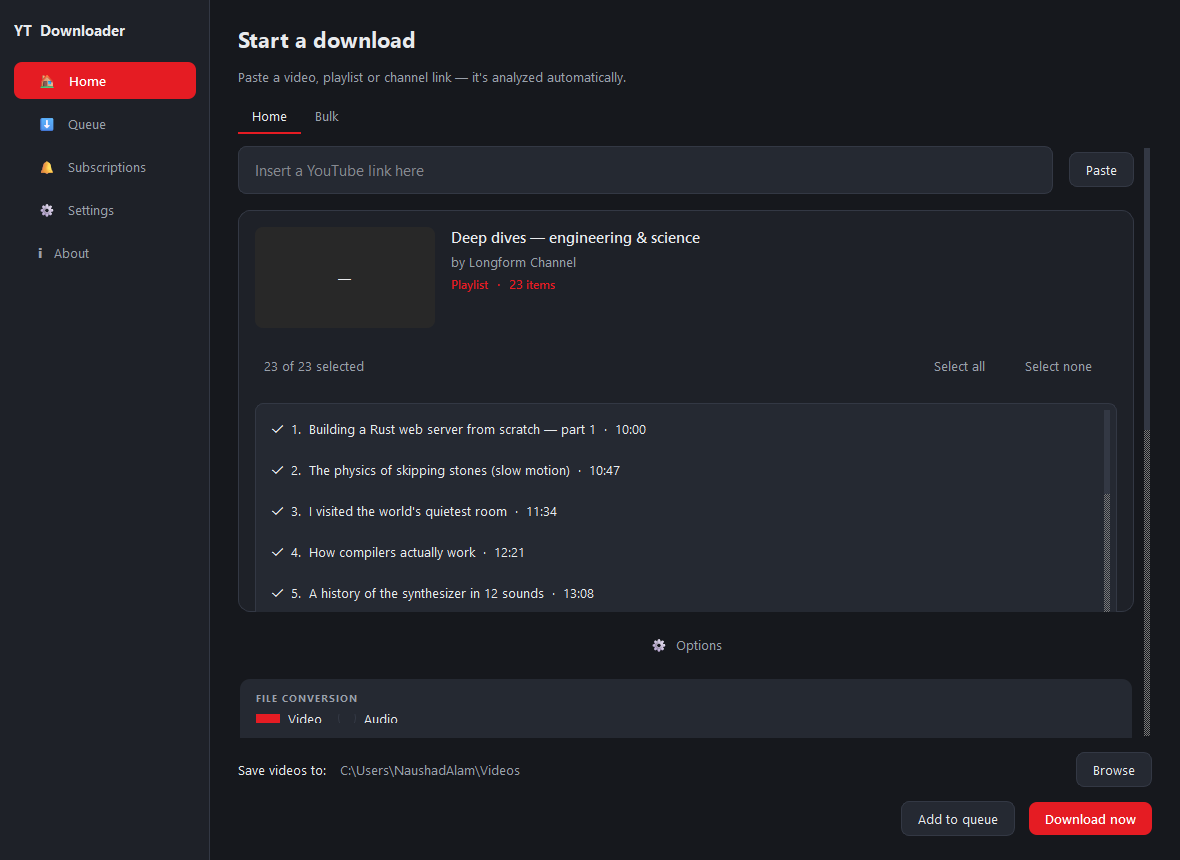
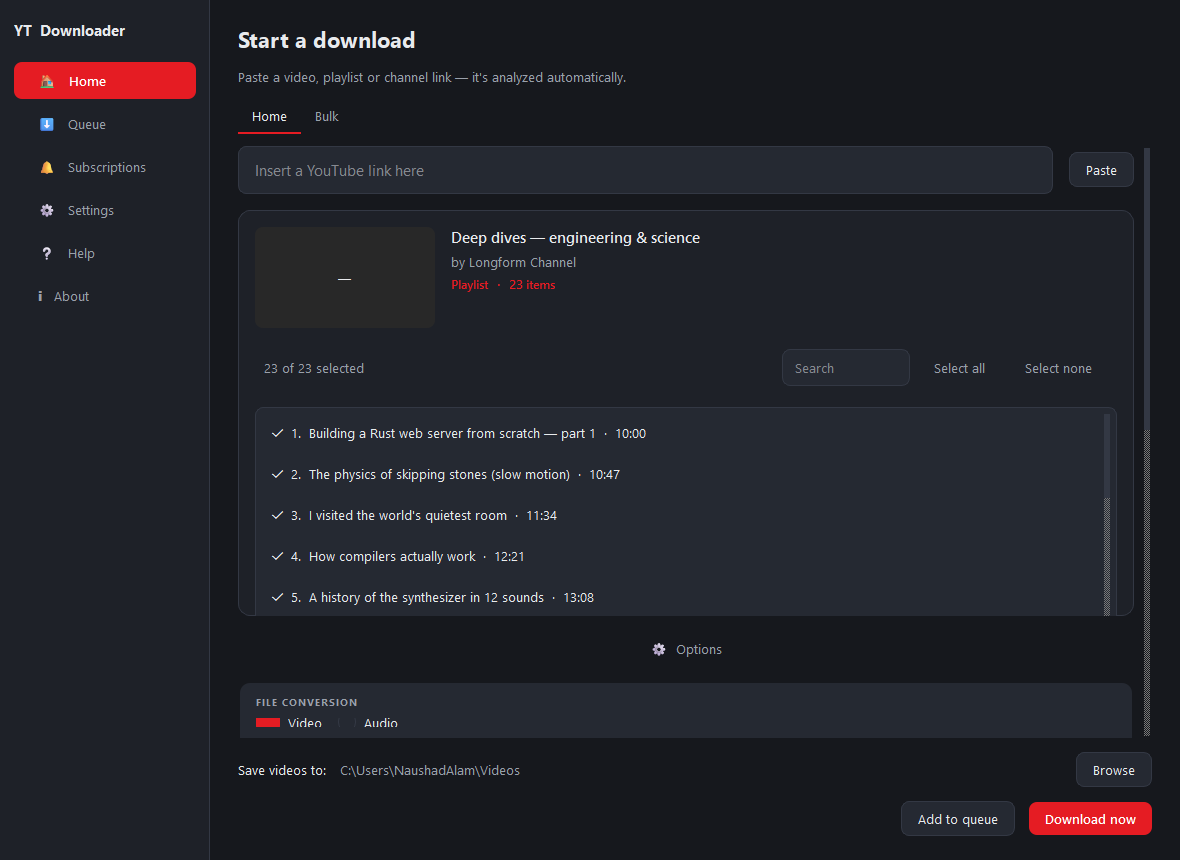
Playlist filter box + minimal CLI
- Home: search box in the selection bar (shown for playlists >12 items);
  filters the list live, and Select all/none then act on visible rows only.
- app.py: argparse front-end — `ytpdl --version`, `--help`, and an optional
  positional URL that pre-fills the Home search box. Qt's own flags pass through.

diff --git a/ytpdl/ui/pages/home_page.py b/ytpdl/ui/pages/home_page.py
@@ -145,6 +145,11 @@ class HomePage(QWidget):
         self._select_bar.setSpacing(8)
         self._select_count = QLabel("")
         self._select_count.setObjectName("Dim")
+        self._list_filter = QLineEdit()
+        self._list_filter.setPlaceholderText(tr("Search"))
+        self._list_filter.setClearButtonEnabled(True)
+        self._list_filter.setMaximumWidth(220)
+        self._list_filter.textChanged.connect(self._apply_list_filter)
         btn_all = QPushButton(tr("SelectAll"))
         btn_all.setObjectName("Ghost")
         btn_all.clicked.connect(lambda: self._set_all_checked(True))
@@ -152,6 +157,7 @@ class HomePage(QWidget):
         btn_none.setObjectName("Ghost")
         btn_none.clicked.connect(lambda: self._set_all_checked(False))
         self._select_bar.addWidget(self._select_count, 1)
+        self._select_bar.addWidget(self._list_filter)
         self._select_bar.addWidget(btn_all)
         self._select_bar.addWidget(btn_none)
         self._select_bar_holder = QWidget()
@@ -336,6 +342,10 @@ class HomePage(QWidget):
         collection = source.is_collection and source.count > 1
         self._select_bar_holder.setVisible(collection)
         self._video_list.setVisible(collection)
+        self._list_filter.blockSignals(True)
+        self._list_filter.clear()
+        self._list_filter.blockSignals(False)
+        self._list_filter.setVisible(collection and source.count > 12)
         self._video_list.blockSignals(True)
         self._video_list.clear()
         if collection:
@@ -352,10 +362,20 @@ class HomePage(QWidget):
             self._video_list.setFixedHeight(min(self._video_list.count(), 7) * row_h + 8)
         self._update_select_count()
 
+    def _apply_list_filter(self, text: str) -> None:
+        needle = text.strip().lower()
+        for i in range(self._video_list.count()):
+            item = self._video_list.item(i)
+            item.setHidden(bool(needle) and needle not in item.text().lower())
+
     def _set_all_checked(self, checked: bool) -> None:
+        """Toggle the rows currently visible (respects the filter box)."""
+        state = Qt.Checked if checked else Qt.Unchecked
         self._video_list.blockSignals(True)
         for i in range(self._video_list.count()):
-            self._video_list.item(i).setCheckState(Qt.Checked if checked else Qt.Unchecked)
+            item = self._video_list.item(i)
+            if not item.isHidden():
+                item.setCheckState(state)
         self._video_list.blockSignals(False)
         self._update_select_count()
 

diff --git a/ytpdl/app.py b/ytpdl/app.py
@@ -2,18 +2,12 @@
 
 from __future__ import annotations
 
+import argparse
 import logging
 import sys
 
-from PySide6.QtCore import Qt
-from PySide6.QtGui import QIcon
-from PySide6.QtWidgets import QApplication
-
-from . import config
+from . import __version__, config
 from .core.settings import SettingsStore
-from .i18n import translator
-from .ui.main_window import MainWindow
-from .ui.theme import apply_theme
 
 
 def _setup_logging() -> None:
@@ -28,9 +22,32 @@ def _setup_logging() -> None:
     )
 
 
+def _parse_args(argv: list[str]) -> argparse.Namespace:
+    parser = argparse.ArgumentParser(
+        prog="ytpdl",
+        description=f"{config.APP_NAME} — download YouTube playlists, channels and videos.",
+    )
+    parser.add_argument("--version", action="version", version=f"ytpdl {__version__}")
+    parser.add_argument(
+        "url", nargs="?",
+        help="optional link to pre-fill on the Home screen at startup",
+    )
+    # let Qt keep its own flags (-style, -platform, …)
+    return parser.parse_known_args(argv)[0]
+
+
 def main() -> int:
+    args = _parse_args(sys.argv[1:])
     _setup_logging()
     config.clean_temp_dir()
+
+    from PySide6.QtCore import Qt
+    from PySide6.QtGui import QIcon
+    from PySide6.QtWidgets import QApplication
+
+    from .i18n import translator
+    from .ui.main_window import MainWindow
+    from .ui.theme import apply_theme
 
     app = QApplication(sys.argv)
     app.setApplicationName(config.APP_NAME)
@@ -46,6 +63,8 @@ def main() -> int:
     apply_theme(app, settings.app.theme, settings.app.accent)
 
     window = MainWindow(settings)
+    if args.url:
+        window._home._search.setText(args.url.strip())
     window.show()
 
     exit_code = app.exec()
